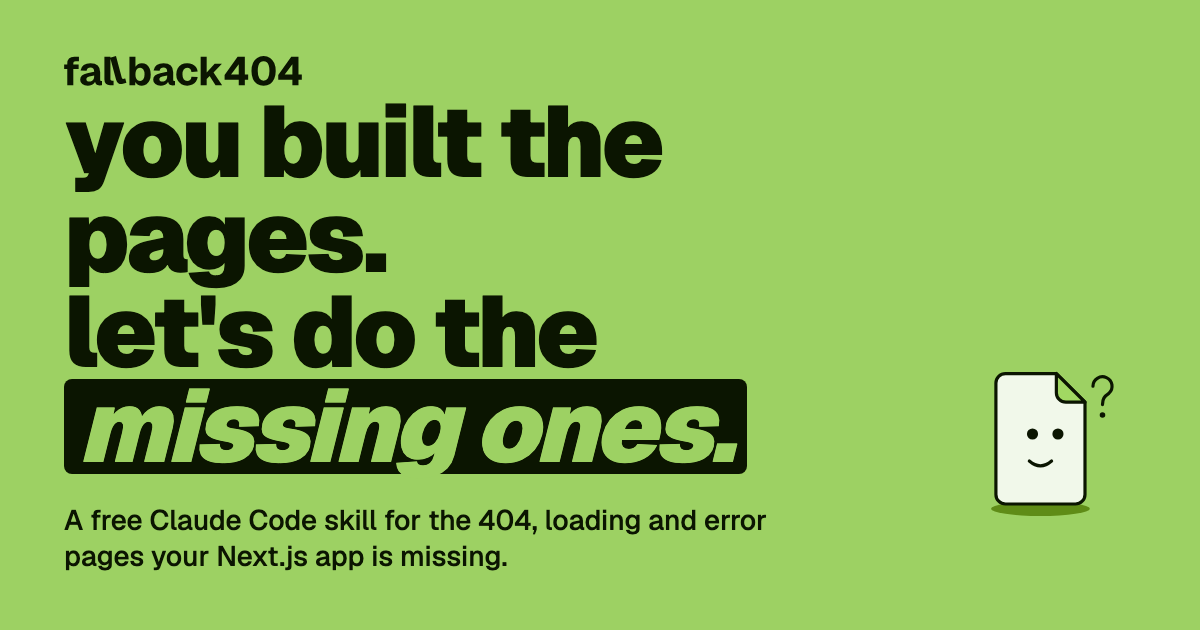
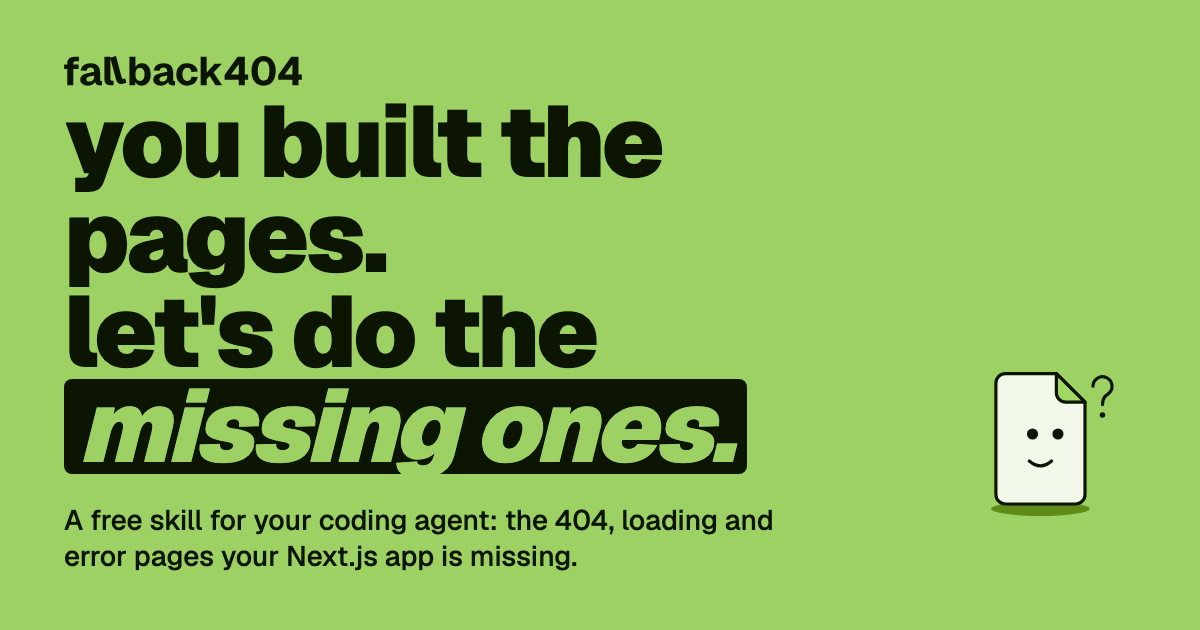
new hero

Changed region(s): [[0.1233, 0.7841, 0.6475, 0.8444], [0.0308, 0.8746, 0.4933, 0.9048]]

diff --git a/README.md b/README.md
@@ -4,67 +4,77 @@
 
 [![fallback404: you built the pages, let's do the missing ones](assets/hero.png)](https://fallback404-beta.vercel.app)
 
-`/fallback404` is a free Claude Code skill that finds the 404, loading and error pages your Next.js app is missing, including 404 pages that wrongly answer HTTP 200, and designs on-brand ones with you on a picker page in your browser. It writes them on a new git branch and never commits.
+`/fallback404` is a free skill for your coding agent (Claude Code, Codex, Cursor, OpenCode, Gemini CLI, GitHub Copilot or any other agent that reads [Agent Skills](https://agentskills.io)) that finds the 404, loading and error pages your Next.js app is missing, including 404 pages that wrongly answer HTTP 200, and designs on-brand ones with you on a picker page in your browser. It writes them on a new git branch and never commits.
 
 ## Install
+
+In Claude Code:
 
 ```bash
 /plugin marketplace add Frklin/fallback404-skill
 /plugin install fallback404@fallback404
 ```
 
-On Claude Code 2.1.275 or later, one line does both:
+On Claude Code 2.1.275 or later, one line does both: `/plugin install fallback404 --marketplace Frklin/fallback404-skill`.
 
-```bash
-/plugin install fallback404 --marketplace Frklin/fallback404-skill
-```
-
-Then, inside your Next.js app, type `/404s`, or ask Claude: *add my missing 404 pages*.
-
-<details>
-<summary>No plugins? Copy the skill directly.</summary>
-
-```bash
-git clone https://github.com/Frklin/fallback404-skill
-rsync -a --exclude '.DS_Store' fallback404-skill/skills/fallback404/ ~/.claude/skills/fallback404/
-```
-
-Restart Claude Code after copying.
-</details>
-
-<details>
-<summary>Update or remove it.</summary>
-
-```bash
-/plugin marketplace update fallback404
-/plugin uninstall fallback404@fallback404
-```
-
-A copy in `~/.claude/skills/fallback404/` is removed by deleting that folder.
-</details>
+Then, in your Next.js app, ask: *Let's build the /fallback404*.
 
 ### Other agents
 
-Any agent that reads [Agent Skills](https://agentskills.io) (a `SKILL.md` in a skills folder) and runs shell commands can use it. Install it with the [`skills` CLI](https://github.com/vercel-labs/skills), from your Next.js app's folder:
-
-```bash
-npx skills add https://github.com/Frklin/fallback404-skill --skill fallback404
-```
-
-It copies the skill to `.agents/skills/fallback404` in the project, which Codex, opencode and Gemini CLI read, and links it into `.claude/skills/` for Claude Code. Add `-g` to install it for your user instead of one project, `-a codex` to pick an agent.
-
-Codex also installs it as a plugin, from the same marketplace:
+Codex installs it as a plugin, from the same marketplace:
 
 ```bash
 codex plugin marketplace add Frklin/fallback404-skill
 codex plugin add fallback404@fallback404
 ```
 
+Cursor, OpenCode, Gemini CLI, GitHub Copilot and any other agent that reads skills: from your Next.js app's folder, run the [`skills` CLI](https://github.com/vercel-labs/skills):
+
+```bash
+npx skills add Frklin/fallback404-skill
+```
+
+It asks which agents you use, then installs both skills, `fallback404` and the `/404s` shortcut, into `.agents/skills/` in the project (Codex, Cursor, OpenCode, Gemini CLI, GitHub Copilot and most others read it) and links them into the folder of every other agent you picked, `.claude/skills/` for Claude Code included. Add `-g` to install them for your user instead of one project, `-a <agent>` to name the agents, `-y` to skip the questions.
+
+<details>
+<summary>No installer? Copy the skills directly.</summary>
+
+```bash
+git clone https://github.com/Frklin/fallback404-skill
+rsync -a --exclude '.DS_Store' fallback404-skill/skills/ ~/.agents/skills/   # Codex, Cursor, OpenCode, Gemini CLI, Copilot…
+rsync -a --exclude '.DS_Store' fallback404-skill/skills/ ~/.claude/skills/   # Claude Code
+```
+
+Restart your agent after copying.
+</details>
+
+<details>
+<summary>Update or remove it.</summary>
+
+```bash
+npx skills update fallback404 404s
+npx skills remove fallback404 404s
+
+/plugin marketplace update fallback404          # Claude Code
+/plugin uninstall fallback404@fallback404
+
+codex plugin marketplace upgrade fallback404    # Codex
+codex plugin remove fallback404@fallback404
+```
+
+A copied skill is removed by deleting its two folders, `fallback404/` and `404s/`.
+</details>
+
+### Agents
+
+Any agent that reads Agent Skills (a `SKILL.md` in a skills folder) and runs shell commands can use it.
+
 | Agent | Install | Tested |
 | --- | --- | --- |
-| Claude Code | the plugin above, or `skills` CLI | whole run, picker included |
-| Codex CLI | the plugin above, or `skills` CLI | plugin install, skill install, preflight and scan; not the picker or the write phases |
-| opencode, Gemini CLI | `skills` CLI | installs; not run |
+| Claude Code | plugin, or `skills` CLI | whole run, picker included |
+| OpenCode | `skills` CLI | whole run on a free model: picker, branch, a soft-404 fix, dev and production checks; not the design steps |
+| Codex CLI | plugin, or `skills` CLI | plugin and skill install, finds both skills, preflight and scan; not the picker or the write phases |
+| Cursor, Gemini CLI, GitHub Copilot and others | `skills` CLI | installs into the folder they read; not run |
 
 `SKILL.md` names its folder `${CLAUDE_SKILL_DIR}`. Claude Code fills that in; other agents are told to use the folder's absolute path.
 
@@ -72,21 +82,23 @@ Opening this repo in an agent also works: `.agents/skills/`, `.claude/skills/` a
 
 ## Use it
 
-From your Next.js app's folder, in Claude Code:
+From your Next.js app's folder, in your agent:
 
 ```text
-/404s
+/fallback404
 ```
 
-Or ask Claude in your own words: *add my missing 404 pages*, *fix the soft 404s*, *give /dashboard a loading state*, *redesign my 404 page*. Text after the command goes along too: `/404s fix the soft 404s`.
+Or say it in your own words: *add my missing 404 pages*, *fix the soft 404s*, *give /dashboard a loading state*, *redesign my 404 page*. Text after the command goes along too: `/fallback404 fix the soft 404s`. In Claude Code, the shorter `/404s` works as well.
 
 What happens:
 
 1. **Scan.** It reads your App Router tree and finds missing `not-found`, `loading` and `error` files, and dynamic routes that answer 200 for records that don't exist.
 2. **Coverage.** A picker page opens in your browser with every 404, loading and error flow of your app, screenshots of your current 404 pages, and a choice per row: create, keep, redesign or fix.
-3. **Design.** For what you chose, a few options per step in your colors and fonts: a logo if you have none, a mascot or a motif built from your own components, the loader motion, the 404 page. You pick, or reject with a note and get a new round.
-4. **Write.** Files go on a new branch, `fallback404/<date>`, in one components folder plus thin route files. A change to a file you wrote is shown as a diff first and needs your yes.
-5. **Check.** It checks the output rules below, type-checks, screenshots every state in light and dark mode and, if you agree, runs a production build to confirm each 404 answers HTTP 404. Nothing is committed: review with `git diff` and commit when you're happy.
+3. **Understand.** While you choose, two agents read what your app does and which of its components render on their own. Every design starts from that brief.
+4. **Design.** One step per flow you chose (the 404 at `/`, the 404 at `/products/[id]`, the loading state at `/dashboard`…): two options built from your own components, tokens and words, next to your current page when you have one. You pick, or reject with a note and get a new round.
+5. **Review.** After the last pick it lists every file it will create, replace or change, with a diff for each file of yours, and waits for your yes in the chat.
+6. **Write.** Files go on a new branch, `fallback404/<date>`: one folder per flow in `components/fallback404/flows/`, thin route files, and one root `not-found` that shows each section its own design.
+7. **Check.** It checks the output rules below, type-checks, screenshots every state in light and dark mode and, if you agree, runs a production build to confirm each 404 answers HTTP 404. Nothing is committed: review with `git diff` and commit when you're happy.
 
 ## What it makes
 
@@ -102,18 +114,19 @@ Real sites whose 404 page belongs to them: the site's own colors, fonts and comp
 ```text
 app/
   global-error.tsx                ← required here; renders its own <html> and <body>
-  not-found.tsx                   ← wrapper, imports from the folder
+  not-found.tsx                   ← wrapper, imports the router
   error.tsx                       ← wrapper
   loading.tsx                     ← wrapper
   products/[id]/not-found.tsx     ← wrapper, only where a section needs its own
-  fallback404-preview/page.tsx    ← every state on one page, dev only
+  fallback404-preview/page.tsx    ← every flow on one page, dev only
 
 components/fallback404/
-  illustrations/                  ← MissingStep, BrokenStep…
-  states/                         ← the full 404, error and loading screens
-  copy.ts                         ← all texts in one file
-  fallback404.css                 ← motion classes, instead of editing globals.css
-  manifest.json                   ← which route uses which state
+  flows/root-not-found/           ← one folder per flow: NotFound.tsx, copy.ts, flow.css
+  flows/products-id-not-found/    ← the section's own 404, from its components
+  flows/products-id-loading/      ← Loader.tsx and its copy.ts
+  NotFoundRouter.tsx              ← shows each section's own 404 at the root, before first paint
+  fallback404.css                 ← role tokens and motion, instead of editing globals.css
+  manifest.json                   ← which route uses which flow
 ```
 
 Only the files you picked are written. Your own `globals.css` and `.gitignore` are never edited.
@@ -121,6 +134,7 @@ Only the files you picked are written. Your own `globals.css` and `.gitignore` a
 ## How it works
 
 - The skill is a `SKILL.md` playbook plus zero-dependency Node scripts (`scan`, `coverage`, `picker`, `branch`, `write`, `check`, `shoot`…) that run inside your project.
+- Two agents read your app while you are on the coverage page: what it does, and which of its components render on their own. One designer agent per flow builds the options, up to three at a time. An agent that cannot run subagents does the same work in order.
 - `scan` parses your routes, `proxy.ts` or `middleware.ts` and data helpers with a vendored `@babel/parser` to find missing states and soft 404s.
 - Each script prints one JSON line, so a run can be resumed: progress lives in `.fallback404/`, which is kept out of git through `.git/info/exclude`.
 - The picker page is a small hosted service the skill talks to: it receives previews and sends back your choice. The files themselves are written locally.
@@ -128,7 +142,7 @@ Only the files you picked are written. Your own `globals.css` and `.gitignore` a
 
 ## What leaves your machine
 
-Your source code never does. The picker page gets only baked SVGs, screenshots (of the generated pages and of your site's current 404 pages at made-up URLs), titles, one-line descriptions, route paths and file names. Diffs stay in your terminal.
+Your source code never does. The picker page gets only screenshots (of the generated pages and of your site's current pages at made-up URLs), titles, one-line descriptions, route paths and file names. Briefs, diffs and the list of changes stay in `.fallback404/`, in your terminal.
 
 ## Output rules
 
@@ -144,14 +158,14 @@ Details: [`skills/fallback404/reference/output-rules.md`](skills/fallback404/ref
 
 ## Requirements
 
-- [Claude Code](https://claude.com/claude-code), or another agent that reads Agent Skills (see [Other agents](#other-agents))
+- A coding agent that reads Agent Skills and runs shell commands: Claude Code, Codex, Cursor, OpenCode, Gemini CLI, GitHub Copilot… (see [Agents](#agents))
 - Node.js 20+
 - A Next.js App Router app in a git repo (measured on Next.js 16.3 and 16.4)
 - Optional: a one-time headless Chromium download (about 105 MB) for screenshots. The skill asks before downloading; without it, everything still runs except the screenshots and the visual check.
 
 ## What's in this repo
 
-- `skills/fallback404/`: the skill (`SKILL.md`), its reference notes, the house style (characters, layouts, motion) and the Node scripts it runs
+- `skills/fallback404/`: the skill (`SKILL.md`), its reference notes, the house style (layouts, motion) and the Node scripts it runs
 - `skills/404s/`: the `/404s` shortcut, which runs `fallback404` with whatever you type after it
 - `.claude-plugin/`: Claude Code plugin manifest and marketplace catalog (Codex reads the same catalog)
 - `.codex-plugin/`: Codex plugin manifest
